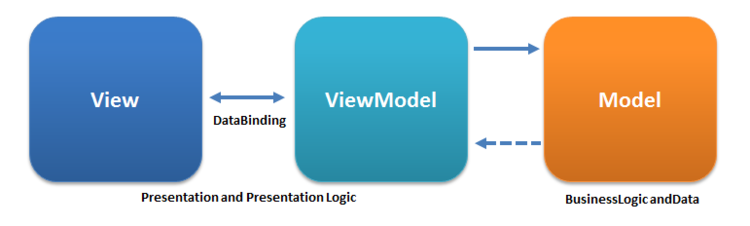
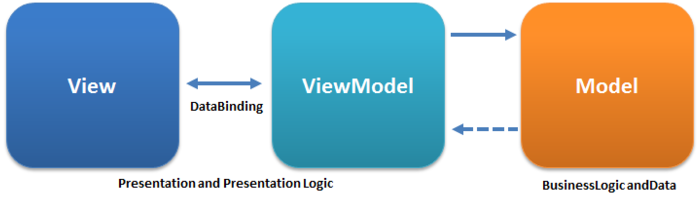
Adjust size of MVVM graphic

Changed region(s): [[0.0, 0.0, 1.0, 0.96], [0.09, 0.39, 0.21, 0.48]]

diff --git a/README.md b/README.md
@@ -4,7 +4,7 @@
 ![GitHub commit activity (branch)](https://img.shields.io/github/commit-activity/m/KevinDHeath/HomeBase?style=plastic)\
 [![.NET Build](https://github.com/KevinDHeath/HomeBase/actions/workflows/dotnet.yml/badge.svg)](https://github.com/KevinDHeath/HomeBase/actions/workflows/dotnet.yml)
 
-## Contents
+# Contents
 - [Common](src/Common/README.md)
 - [EFCore](src/EFCore/README.md)
 - [MVVM](src/MVVM/README.md)
